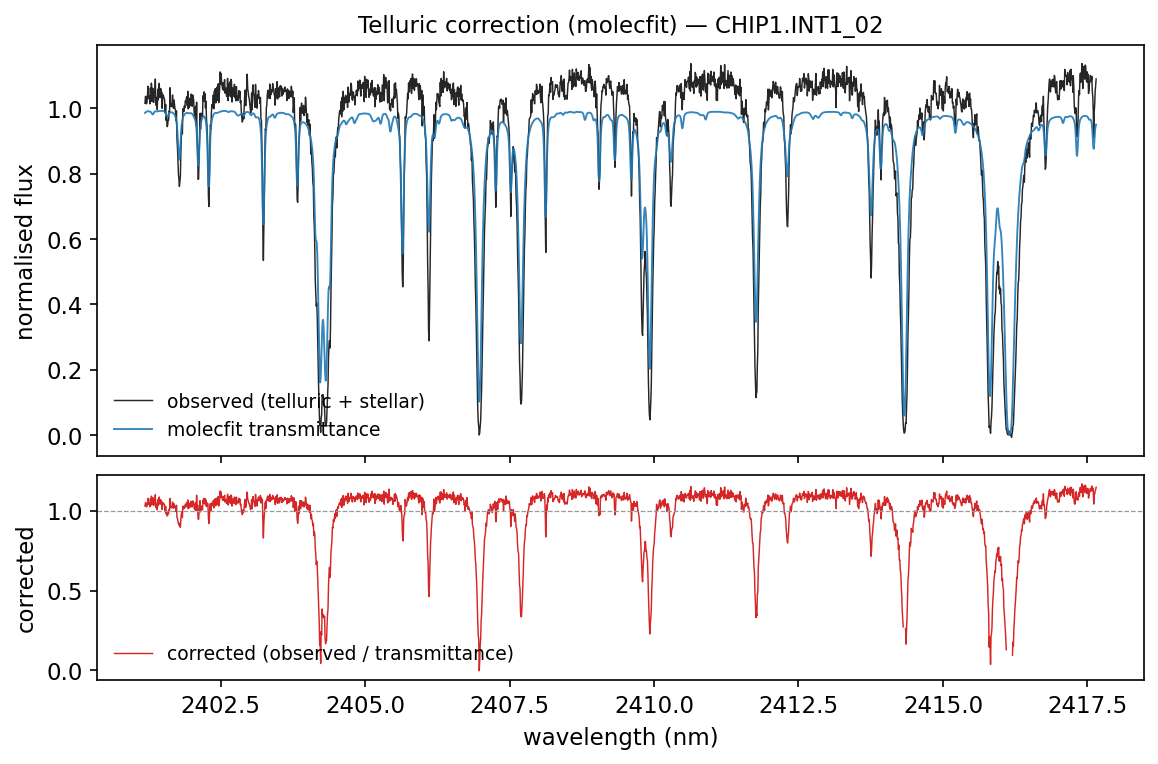
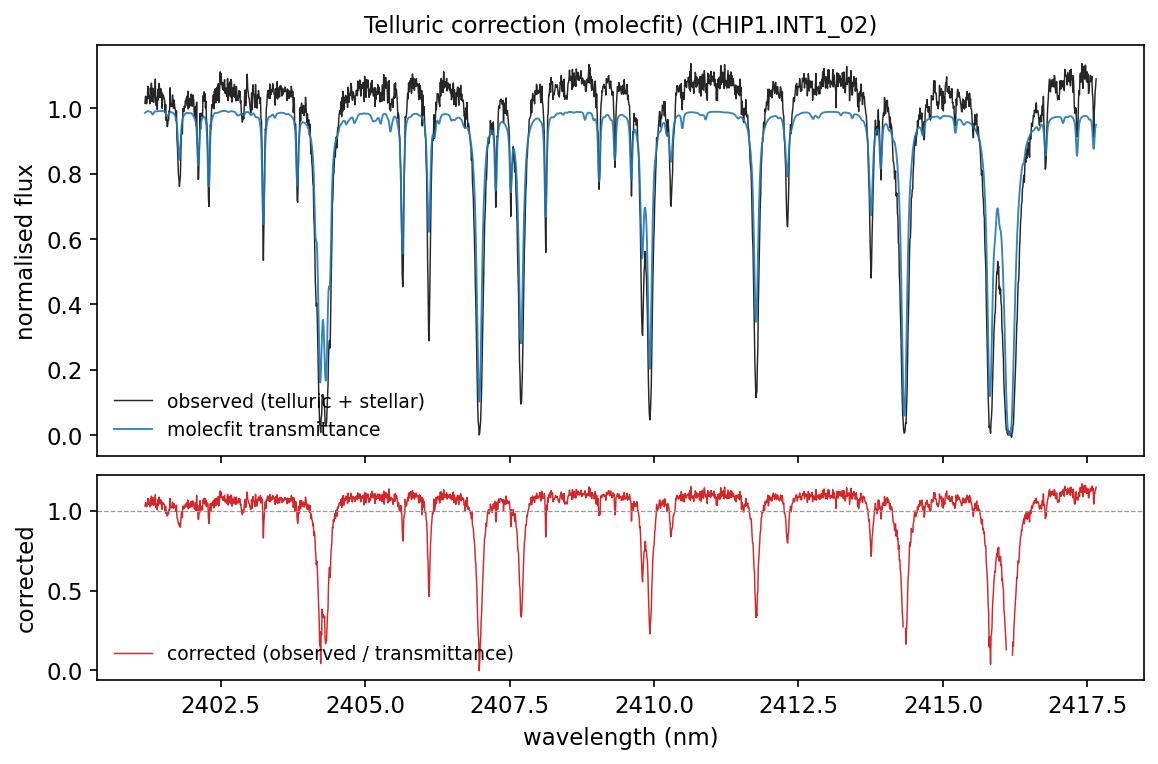
Docs prose cleanup

Changed region(s): [[0.3109, 0.0, 0.7772, 0.0602]]

diff --git a/src/exoplore/core/simulator.py b/src/exoplore/core/simulator.py
@@ -1651,8 +1651,8 @@ class ExoploreSimulator:
             # (dKp, dV_rest) offsets of pipeline.kp_vrest_injection so the
             # signal can be placed at an offset velocity.  [0, 0] keeps the
             # nominal track (default; all other paths unchanged).  The
-            # offsets apply ONLY to the injected matrix — the analysis
-            # reference track (v_planet) is untouched.
+            # offsets apply ONLY to the injected matrix (the analysis
+            # reference track, v_planet, is untouched).
             _inj_off = cfg.pipeline.kp_vrest_injection
             if (cfg.observation.use_real_data
                     and cfg.observation.simulate_planet

diff --git a/src/exoplore/plotting/calibration.py b/src/exoplore/plotting/calibration.py
@@ -123,7 +123,7 @@ def plot_telluric_correction(
     ax0.legend(loc="lower left", fontsize=9, frameon=False)
     ttl = "Telluric correction (molecfit)"
     if segment_label:
-        ttl += f" — {segment_label}"
+        ttl += f" ({segment_label})"
     ax0.set_title(ttl, fontsize=11)
 
     ax1.plot(w, corrected, color="tab:red", lw=0.7,

diff --git a/docs/tutorial.md b/docs/tutorial.md
@@ -1085,7 +1085,7 @@ Cross-correlation of the combined H₂O + CO template with the WASP-127 b residu
 :width: 80%
 :align: center
 
-Kp-Vsys cross-correlation S/N map for WASP-127 b. The combined H₂O + CO signal peaks at K<sub>P</sub> ≈ 133 km s⁻¹ and v<sub>rest</sub> ≈ −7.5 km s⁻¹ at ~8.6σ; the blueshift is the jet signature. Following Nortmann et al. (2025), the map is normalised by the standard deviation over v ∈ [−75, −20] ∪ [+20, +75] km s⁻¹ across the whole K<sub>P</sub> range — the region outside the planetary signal — so the colour scale reads directly in σ. Produced by the run as `sn_map_<run>_SNR.pdf`.
+Kp-Vsys cross-correlation S/N map for WASP-127 b. The combined H₂O + CO signal peaks at K<sub>P</sub> ≈ 133 km s⁻¹ and v<sub>rest</sub> ≈ −7.5 km s⁻¹ at ~8.6σ; the blueshift is the jet signature. Following Nortmann et al. (2025), the map is normalised by the standard deviation over v ∈ [−75, −20] ∪ [+20, +75] km s⁻¹ across the whole K<sub>P</sub> range (the region outside the planetary signal), so the colour scale reads directly in σ. Produced by the run as `sn_map_<run>_SNR.pdf`.
 ```
 
 **Disk footprint:** with the default output settings a single-night CRIRES+ analysis writes ~80 MB (the per-segment CCF and matrix `.npz` products), plus a few MB of diagnostic PDFs. See [Outputs](outputs.md) to control which matrices are kept.
@@ -1157,9 +1157,9 @@ Duration ("N_in") test for the H₂S template on L 98-59 d. **Left:** cross-corr
 
 ## Tutorial 11: Detectability maps
 
-A detectability map answers a planning question: **across a range of atmospheric compositions, at what significance would my simulated observation recover a given molecule?** EXoPLORE sweeps two atmosphere variables on a grid, runs the full forward model + cross-correlation at each grid point, and records the recovered S/N at the injected planet position, producing one map per molecule. This is driven by the `detectability` config block and the `scripts/run_detectability_maps.py` runner, which launches **one subprocess per grid point** (memory-isolated and trivially parallel — ideal for a cluster job array).
+A detectability map answers a planning question: **across a range of atmospheric compositions, at what significance would my simulated observation recover a given molecule?** EXoPLORE sweeps two atmosphere variables on a grid, runs the full forward model + cross-correlation at each grid point, and records the recovered S/N at the injected planet position, producing one map per molecule. This is driven by the `detectability` config block and the `scripts/run_detectability_maps.py` runner, which launches **one subprocess per grid point** (memory-isolated and trivially parallel, ideal for a cluster job array).
 
-> **Approximate run time:** each grid point is a full simulation, so the total scales with the grid size. For the HD 189733 b ANDES case each point is ~32 min (all 76 YJHK orders), so the default 11×11 grid (121 points) is tens of hours run serially. This is meant to be **parallelised** — every grid point is an independent subprocess, so distribute them across cores/nodes (a cluster job array is ideal); an interrupted sweep also resumes, recomputing only the missing points. For a quick look, shrink the grid (`x_values`/`y_values`) or restrict `instrument.order_indices`. Each point writes only the Kp-Vsys map (per-order matrices are switched off), so the sweep is light on disk; the results themselves are one-line text files.
+> **Approximate run time:** each grid point is a full simulation, so the total scales with the grid size. For the HD 189733 b ANDES case each point is ~32 min (all 76 YJHK orders), so the default 11×11 grid (121 points) is tens of hours run serially. This is meant to be **parallelised** (every grid point is an independent subprocess), so distribute them across cores/nodes (a cluster job array is ideal); an interrupted sweep also resumes, recomputing only the missing points. For a quick look, shrink the grid (`x_values`/`y_values`) or restrict `instrument.order_indices`. Each point writes only the Kp-Vsys map (per-order matrices are switched off), so the sweep is light on disk; the results themselves are one-line text files.
 
 ### Step 1: Configure the sweep
 
@@ -1179,13 +1179,13 @@ A detectability map answers a planning question: **across a range of atmospheric
 }
 ```
 
-- **`x_variable` / `y_variable`** — two supported pairs: **metallicity vs C/O** (above) and **metallicity vs cloud-top pressure** (`"y_variable": "cloud_pressure_bar"`). Metallicity is always `metallicity_wrt_solar` = log₁₀(Z/Z⊙). The swept variables are set on both the injected planet model and the matched-filter template, with equilibrium chemistry on, so metallicity and C/O map to abundances.
-- **`x_values` / `y_values`** — the grid on each axis. **Tune them freely, or leave a list empty (`[]`) to use the built-in default grid** for the chosen pair:
-    - *metallicity vs C/O* — log₁₀ Z in `[-1.5 … +1.5]` and C/O in `[0.30 … 1.10]` (the 11×11 grid shown above);
-    - *metallicity vs clouds* — log₁₀ Z in `[0 … 3]` (1–1000× solar) and cloud-top pressure in `[1e-4 … 1.0]` bar, log-spaced (10×10).
-  The map resolution is entirely yours to set here — a coarse grid for a quick survey, a fine one for a publication figure.
-- **`molecules`** — one single-species map per entry; defaults to `["H2O"]`. List several (e.g. `["H2O", "CO", "CH4"]`) to get one map each.
-- **`significance`** — `"cell_box"` (default) takes the maximum S/N in a small box around the injected position (`box_half_vrest_kms`, `box_half_kp_kms`), robust to the Kp-Vrest degeneracy over a single transit; `"injected_point"` reads only the exact injected cell.
+- **`x_variable` / `y_variable`**: two supported pairs: **metallicity vs C/O** (above) and **metallicity vs cloud-top pressure** (`"y_variable": "cloud_pressure_bar"`). Metallicity is always `metallicity_wrt_solar` = log₁₀(Z/Z⊙). The swept variables are set on both the injected planet model and the matched-filter template, with equilibrium chemistry on, so metallicity and C/O map to abundances.
+- **`x_values` / `y_values`**: the grid on each axis. **Tune them freely, or leave a list empty (`[]`) to use the built-in default grid** for the chosen pair:
+    - *metallicity vs C/O*: log₁₀ Z in `[-1.5 … +1.5]` and C/O in `[0.30 … 1.10]` (the 11×11 grid shown above);
+    - *metallicity vs clouds*: log₁₀ Z in `[0 … 3]` (1 to 1000× solar) and cloud-top pressure in `[1e-4 … 1.0]` bar, log-spaced (10×10).
+  The map resolution is entirely yours to set here (a coarse grid for a quick survey, a fine one for a publication figure).
+- **`molecules`**: one single-species map per entry; defaults to `["H2O"]`. List several (e.g. `["H2O", "CO", "CH4"]`) to get one map each.
+- **`significance`**: `"cell_box"` (default) takes the maximum S/N in a small box around the injected position (`box_half_vrest_kms`, `box_half_kp_kms`), robust to the Kp-Vrest degeneracy over a single transit; `"injected_point"` reads only the exact injected cell.
 
 ### Step 2: Run the sweep
 
@@ -1201,10 +1201,10 @@ For each molecule and grid point this writes a temporary single-point config, ru
 :width: 80%
 :align: center
 
-H₂O detectability for a single HD 189733 b ANDES transit (all 76 YJHK orders), over metallicity ([Fe/H]) and C/O, shown on a coarse grid for illustration — the bundled config uses the finer 11×11 default. The colour scale is the recovered cross-correlation S/N at the injected planet position; white contours mark the S/N = 3 and 5 detection thresholds. This tells the observer which compositions are recoverable in one transit and which require co-adding several. Produced with `exoplore.plotting.plot_detectability_map`.
+H₂O detectability for a single HD 189733 b ANDES transit (all 76 YJHK orders), over metallicity ([Fe/H]) and C/O, shown on a coarse grid for illustration (the bundled config uses the finer 11×11 default). The colour scale is the recovered cross-correlation S/N at the injected planet position; white contours mark the S/N = 3 and 5 detection thresholds. This tells the observer which compositions are recoverable in one transit and which require co-adding several. Produced with `exoplore.plotting.plot_detectability_map`.
 ```
 
-To resume an interrupted sweep, just re-run the command: existing grid points are already saved as text files and only the missing points are recomputed (and `plot_detectability_map(..., )` can render a partial grid). Because each grid point is an independent process, the fastest way to fill a large grid is to run several points concurrently — the runner is a thin wrapper over per-point subprocesses precisely so this parallelises cleanly.
+To resume an interrupted sweep, just re-run the command: existing grid points are already saved as text files and only the missing points are recomputed (and `plot_detectability_map(..., )` can render a partial grid). Because each grid point is an independent process, the fastest way to fill a large grid is to run several points concurrently; the runner is a thin wrapper over per-point subprocesses precisely so this parallelises cleanly.
 
 ---
 

diff --git a/docs/nortmann26_pipeline.md b/docs/nortmann26_pipeline.md
@@ -30,10 +30,10 @@ series:
    (`pipeline.sysrem_iterations`).
 5. **Model filtering for retrievals** (`nortmann_model_filter`): the
    Gibson et al. (2022) filter in the division form of Nortmann 2026
-   Appendix A.3 (Eqs. A.1–A.3), so forward models suffer the same SYSREM
+   Appendix A.3 (Eqs. A.1 to A.3), so forward models suffer the same SYSREM
    distortions as the data.
 
-The Kp–Vsys maps, in/out-of-trail statistics and significance metrics are the
+The Kp-Vsys maps, in/out-of-trail statistics and significance metrics are the
 engine's standard CCF machinery; the map convention is
 `v_rest = offset from the expected planet trail`.
 
@@ -109,7 +109,7 @@ makes a complete end-to-end example.
    `timeseries_manifest.txt`.
 4. **Prepare**:
    `python scripts/prepare_crires_night.py mynight inputs/CRIRES_PLUS/L98-59c/reference_night`
-   — runs molecfit per nodding position if not cached (slow, once), then the
+   which runs molecfit per nodding position if not cached (slow, once), then the
    quality cut, cosmic-ray rejection, wavelength refinement and gating,
    resolution measurement and drift check, and writes the `reference_night/`
    files.
@@ -133,10 +133,10 @@ makes a complete end-to-end example.
 
    with the remaining blocks (atmosphere template species, cross_correlation)
    as in [the config reference](config_reference.md).
-6. **Run**: `python scripts/run_exoplore.py myconfig.json --run` — the engine
+6. **Run**: `python scripts/run_exoplore.py myconfig.json --run`. The engine
    ingests the reference night, detrends with division SYSREM, cross-correlates
    the petitRADTRANS template convolved to the measured resolution, and writes
-   Kp–Vsys maps and matrices under `paths.output_root`.
+   Kp-Vsys maps and matrices under `paths.output_root`.
 
 The reduced GJ 1214 b spectra of Nortmann et al. (2026) are also public
 (Zenodo record 19387252) and can be used to validate the analysis stage
